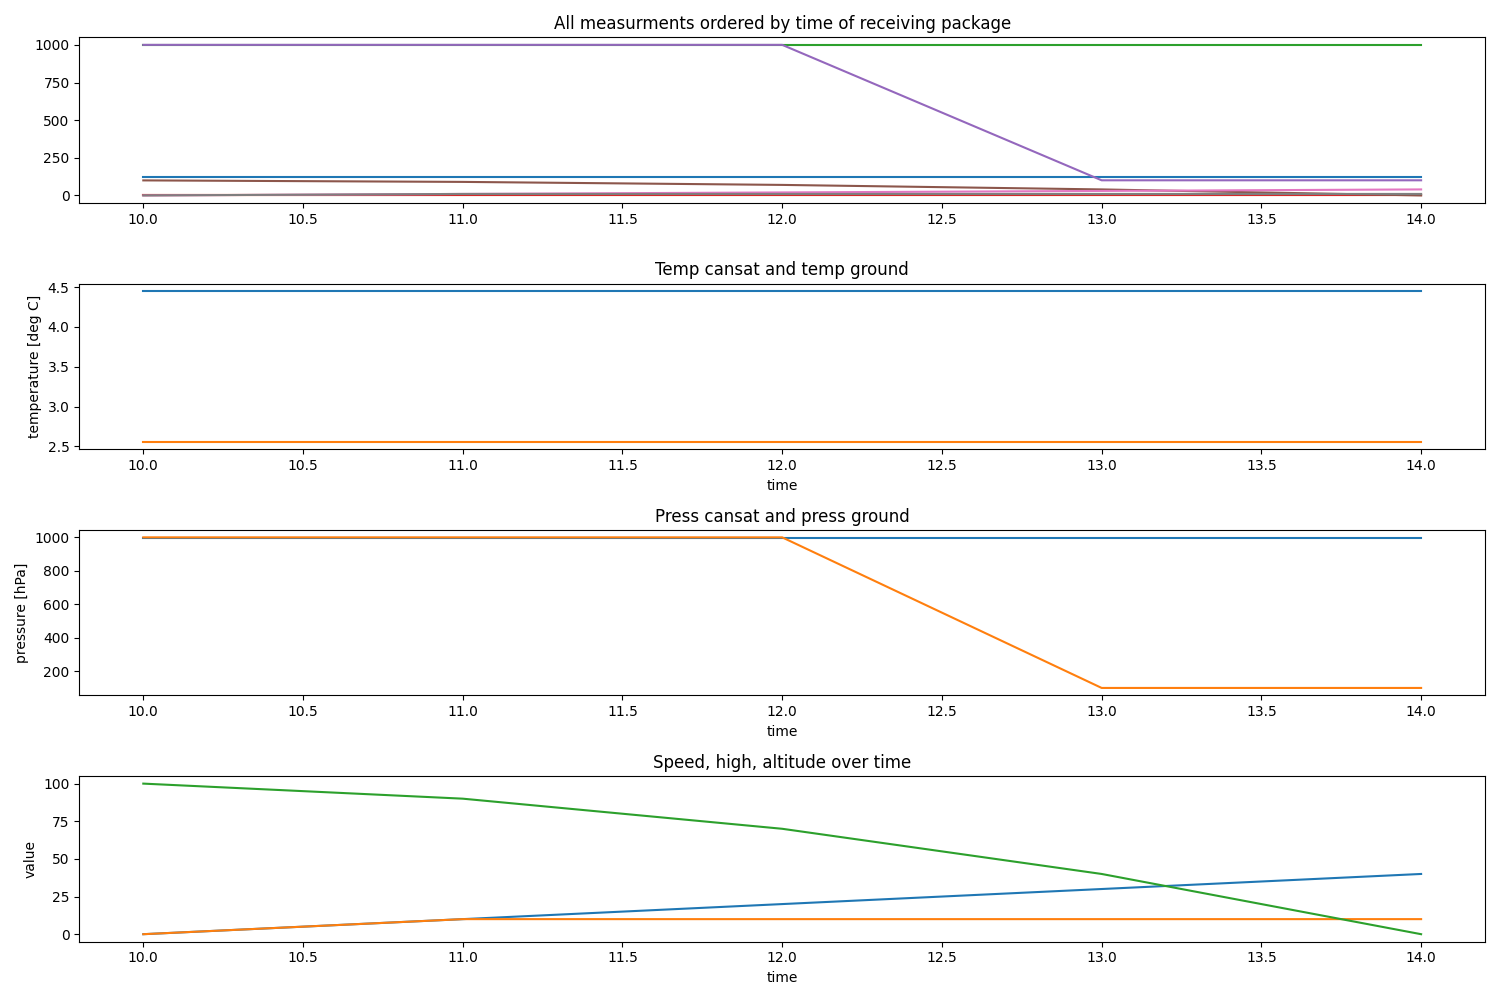
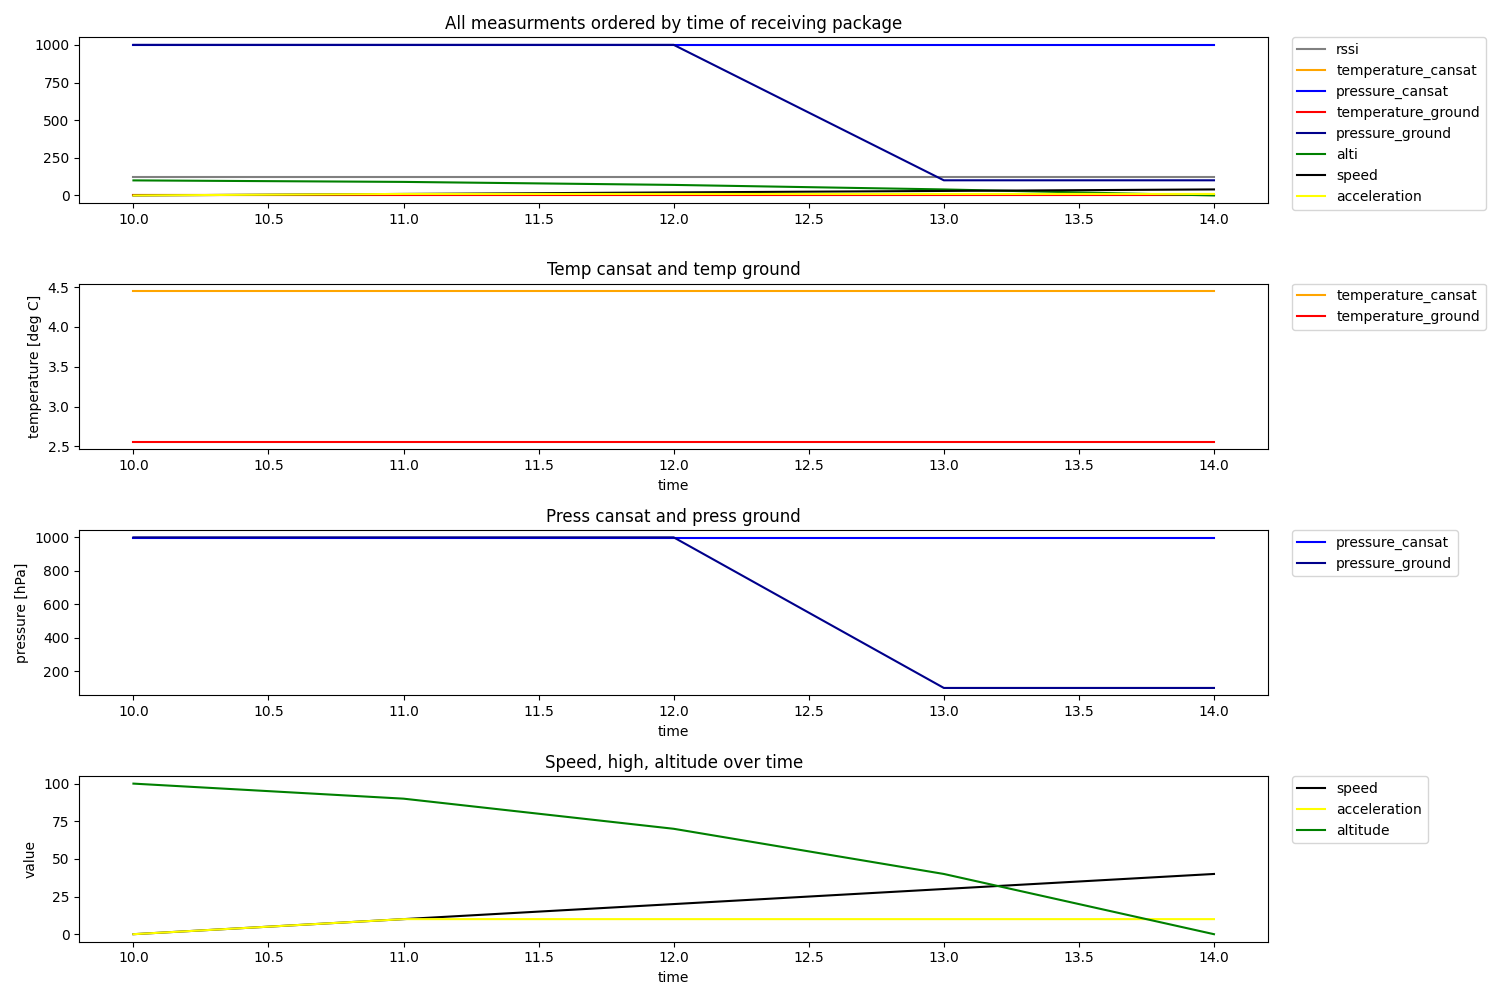
Added legends and global colours

diff --git a/main_plotting_script.py b/main_plotting_script.py
@@ -57,6 +57,9 @@ def load_data_from_sd (filename):
     return data
 
 def gen_chart (df):
+
+    colours = {'rssi': 'grey', 'temperature_cansat':'orange', 'pressure_cansat': 'blue', 'temperature_ground': 'red', 'pressure_ground': 'darkblue', 'alti': 'green', 'acceleration': 'yellow', 'speed': 'black'}
+
     fig, (ax0, ax1, ax2, ax3) = plt.subplots(nrows = 4, figsize = (15, 10))
 
     for column in df.columns.values.tolist():
@@ -67,12 +70,13 @@ def gen_chart (df):
 
             x = df['time'].values
 
-            ax0.plot(x, y, label = column)
+            ax0.plot(x, y, label = column, color = colours[column])
     ax0.set_title('All measurments ordered by time of receiving package')
     ax0.set_ylim(auto=True)
+    ax0.legend(bbox_to_anchor=(1.02, 1), loc='upper left', borderaxespad=0.)
 
-    ax1.plot(df['time'].values, df['temperature_cansat'].values, label = 'temperature_cansat')
-    ax1.plot(df['time'].values, df['temperature_ground'].values, label = 'temperature_ground')
+    ax1.plot(df['time'].values, df['temperature_cansat'].values, label = 'temperature_cansat', color = colours['temperature_cansat'])
+    ax1.plot(df['time'].values, df['temperature_ground'].values, label = 'temperature_ground', color = colours['temperature_ground'])
 
     ax1.set_title("Temp cansat and temp ground")
     ax1.set_ylim(auto=True)
@@ -80,8 +84,10 @@ def gen_chart (df):
     ax1.set(ylabel = 'temperature [deg C]')
     ax1.set(xlabel = 'time')
 
-    ax2.plot(df['time'].values, df['pressure_cansat'].values, label = 'pressure_cansat')
-    ax2.plot(df['time'].values, df['pressure_ground'].values, label = 'pressure_ground')
+    ax1.legend(bbox_to_anchor=(1.02, 1), loc='upper left', borderaxespad=0.)
+
+    ax2.plot(df['time'].values, df['pressure_cansat'].values, label = 'pressure_cansat', color = colours['pressure_cansat'])
+    ax2.plot(df['time'].values, df['pressure_ground'].values, label = 'pressure_ground', color = colours['pressure_ground'])
 
     ax2.set_title("Press cansat and press ground")
     ax2.set_ylim(auto=True)
@@ -89,15 +95,19 @@ def gen_chart (df):
     ax2.set(ylabel = 'pressure [hPa]')
     ax2.set(xlabel = 'time')
 
-    ax3.plot(df['time'].values, df['speed'].values, label = 'speed')
-    ax3.plot(df['time'].values, df['acceleration'].values, label = 'acceleration')
-    ax3.plot(df['time'].values, df['alti'].values, label = 'altitude')
+    ax2.legend(bbox_to_anchor=(1.02, 1), loc='upper left', borderaxespad=0.)
+
+    ax3.plot(df['time'].values, df['speed'].values, label = 'speed [m/s]', color = colours['speed'])
+    ax3.plot(df['time'].values, df['acceleration'].values, label = 'acceleration [m/s^2]', color = colours['acceleration'])
+    ax3.plot(df['time'].values, df['alti'].values, label = 'altitude [m]', color = colours['alti'])
 
     ax3.set_title("Speed, high, altitude over time")
     ax3.set_ylim(auto=True)
 
     ax3.set(ylabel = 'value')
     ax3.set(xlabel = 'time')
+
+    ax3.legend(bbox_to_anchor=(1.02, 1), loc='upper left', borderaxespad=0.)
 
     fig.tight_layout()
     plt.savefig('a.png')
